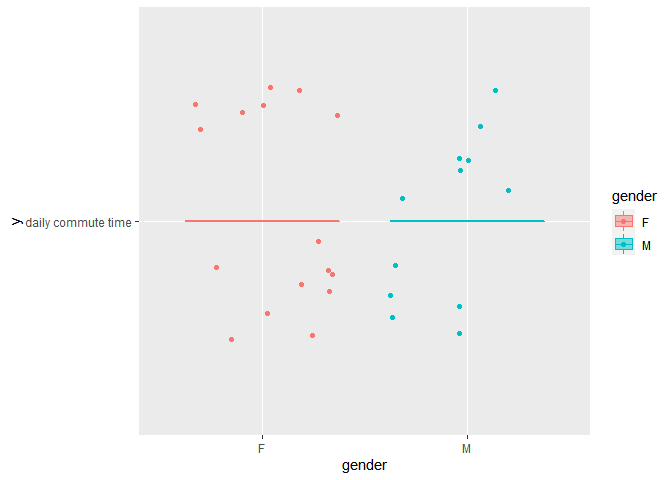
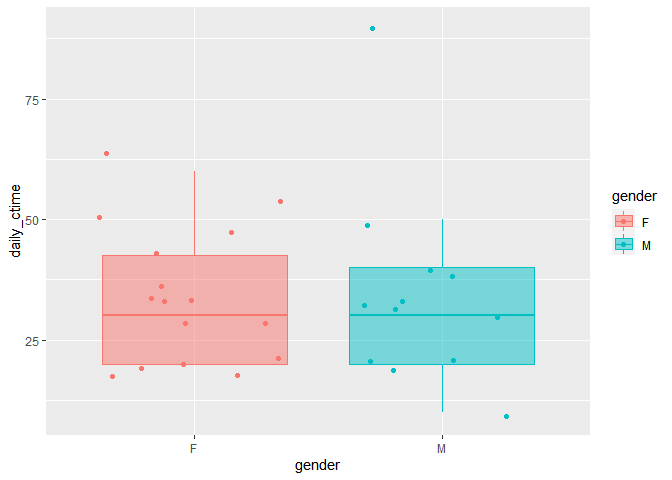
commit

diff --git a/final.md b/final.md
@@ -17,16 +17,87 @@ library(ggplot2)
 
 #### 1. Descriptive statistics
 
-2.  The frequency of commute travel by race/ethnicity, gender
+#### 2. The travel time of commute/non-commute travel by gender
 
-3.  Scatterplot: frequency of travel and children
+``` r
+ggplot(data = interview_data, aes(x = gender, y = daily_ctime, color=gender, fill=gender))+
+  geom_boxplot(outlier.shape = NA, alpha=0.5) +
+  geom_jitter()
+```
 
-4.  car acquirement
+![](final_files/figure-gfm/unnamed-chunk-4-1.png)<!-- -->
 
-5.  sort out: single mothers with child with cars \<-> married mothers
-    with child with cars
+``` r
+ggplot(data = interview_data, aes(x = gender, y = daily_ttime_other, color=gender, fill=gender))+
+  geom_boxplot(outlier.shape = NA, alpha=0.5) +
+  geom_jitter()
+```
 
-6.  fathers vs mothers (married with children): frequency of other
-    travel
+![](final_files/figure-gfm/unnamed-chunk-4-2.png)<!-- -->
 
-7.  car acquirement status and repairment
+#### 3. Scatterplot: correlation between travel time and children
+
+``` r
+ggplot(data = interview_data) + 
+  geom_point(mapping = aes(x=children, y=daily_ttime_other)) +
+  labs(x="Number of Children", y="Daily Travel Time for Other Purposes(min)")
+```
+
+![](final_files/figure-gfm/unnamed-chunk-5-1.png)<!-- -->
+
+#### 4.single mothers with child with cars \<-> married mothers with child with cars
+
+``` r
+interview_data %>%
+  filter(children>0 & gender=="F" & Own_car=="yes") %>%
+  group_by(marital_status) %>%
+  summarise_at(vars(daily_ctime, daily_ttime_other), funs(mean))%>%
+  rename('mean_daily_ctime' = daily_ctime,'mean_daily_ttime_other' = daily_ttime_other) %>%
+  kable()
+```
+
+| marital_status | mean_daily_ctime | mean_daily_ttime_other |
+|:---------------|-----------------:|-----------------------:|
+| Married        |         35.71429 |               101.4286 |
+| Unmarried      |         30.00000 |               120.0000 |
+
+#### 4.2. Visualization
+
+``` r
+driving_mothers <-interview_data %>%
+  filter(children>0 & gender=="F" & Own_car=="yes") %>%
+  group_by(marital_status) %>%
+  summarise_at(vars(daily_ctime, daily_ttime_other), funs(mean))%>%
+  rename('mean_daily_ctime' = daily_ctime,'mean_daily_ttime_other' = daily_ttime_other)
+
+  ggplot(driving_mothers, aes(x=marital_status, y=mean_daily_ctime, color=marital_status,fill=marital_status)) +
+  geom_bar(stat='identity')
+```
+
+![](final_files/figure-gfm/unnamed-chunk-7-1.png)<!-- -->
+
+``` r
+  ggplot(driving_mothers, aes(x=marital_status, y=mean_daily_ttime_other, color=marital_status,fill=marital_status)) +
+  geom_bar(stat='identity')
+```
+
+![](final_files/figure-gfm/unnamed-chunk-7-2.png)<!-- -->
+
+#### 5. used cars and repairs
+
+``` r
+new_data <- interview_data %>% mutate(used = Car_acq)
+new_data$used[new_data$used=="gifted"] = "used"
+new_data %>% select(used, repairs) %>% 
+  group_by(used, repairs)  %>% 
+  tally() %>% 
+  spread(repairs, n)
+```
+
+    ## # A tibble: 3 x 4
+    ## # Groups:   used [3]
+    ##   used  `n/a`    no   yes
+    ##   <chr> <int> <int> <int>
+    ## 1 n/a       4    NA    NA
+    ## 2 new      NA     2     1
+    ## 3 used     NA     1    20
